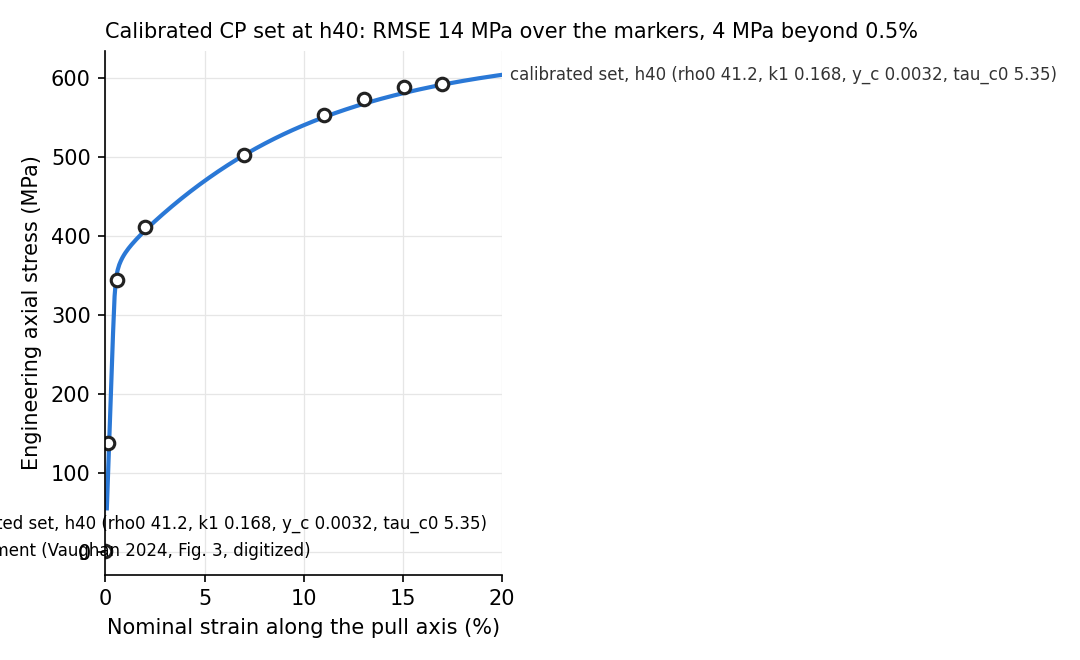
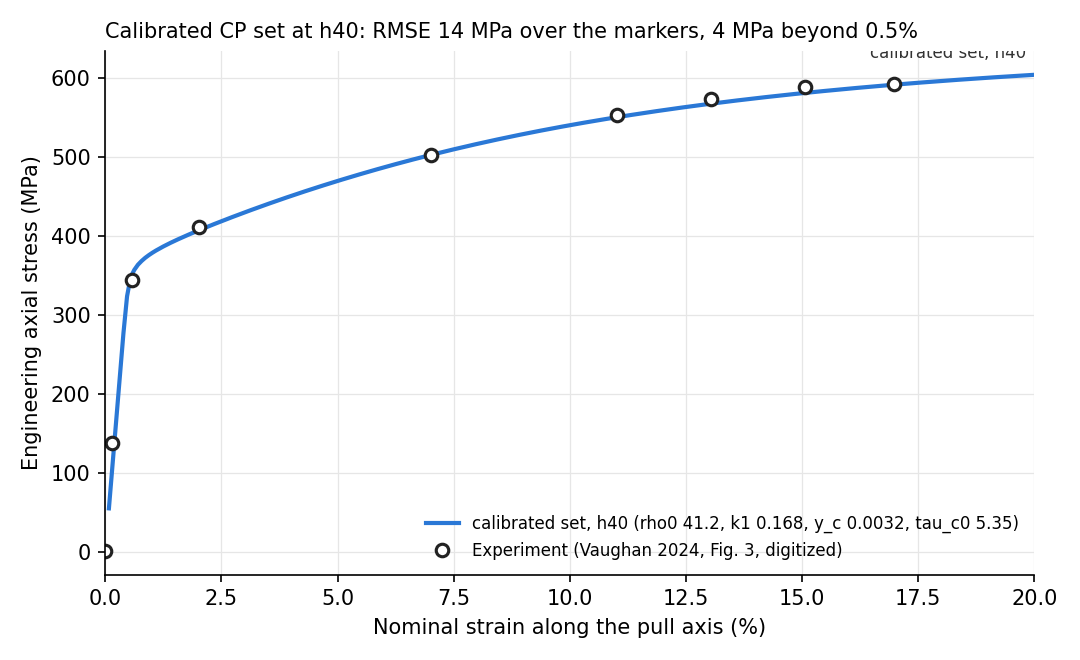
Figures: calibrated h40 curve and iteration 1, with in-axes labels

diff --git a/scripts/plot_plate_curve.py b/scripts/plot_plate_curve.py
@@ -42,8 +42,9 @@ def main():
         label, path = spec.split("=", 1)
         x, y = read(path, "nominal_strain", "eng_stress")
         ax.plot([100 * v for v in x], y, color=SERIES[i % len(SERIES)], lw=2, label=label)
-        ax.annotate(label, (100 * x[-1], y[-1]), xytext=(4, 0), textcoords="offset points",
-                    fontsize=8, va="center", color="#333")
+        short = label.split("(")[0].strip()
+        ax.annotate(short, (100 * x[-1], y[-1]), xytext=(-4, 6), textcoords="offset points",
+                    fontsize=8, ha="right", va="bottom", color="#333", clip_on=True)
     if a.moose:
         x, y = read(a.moose, "nominal_strain_yy", "mean_stress_yy")
         ax.plot([100 * v for v in x], y, color=MOOSE, lw=2, label="MOOSE single crystal (0,0,0), reference deck")
